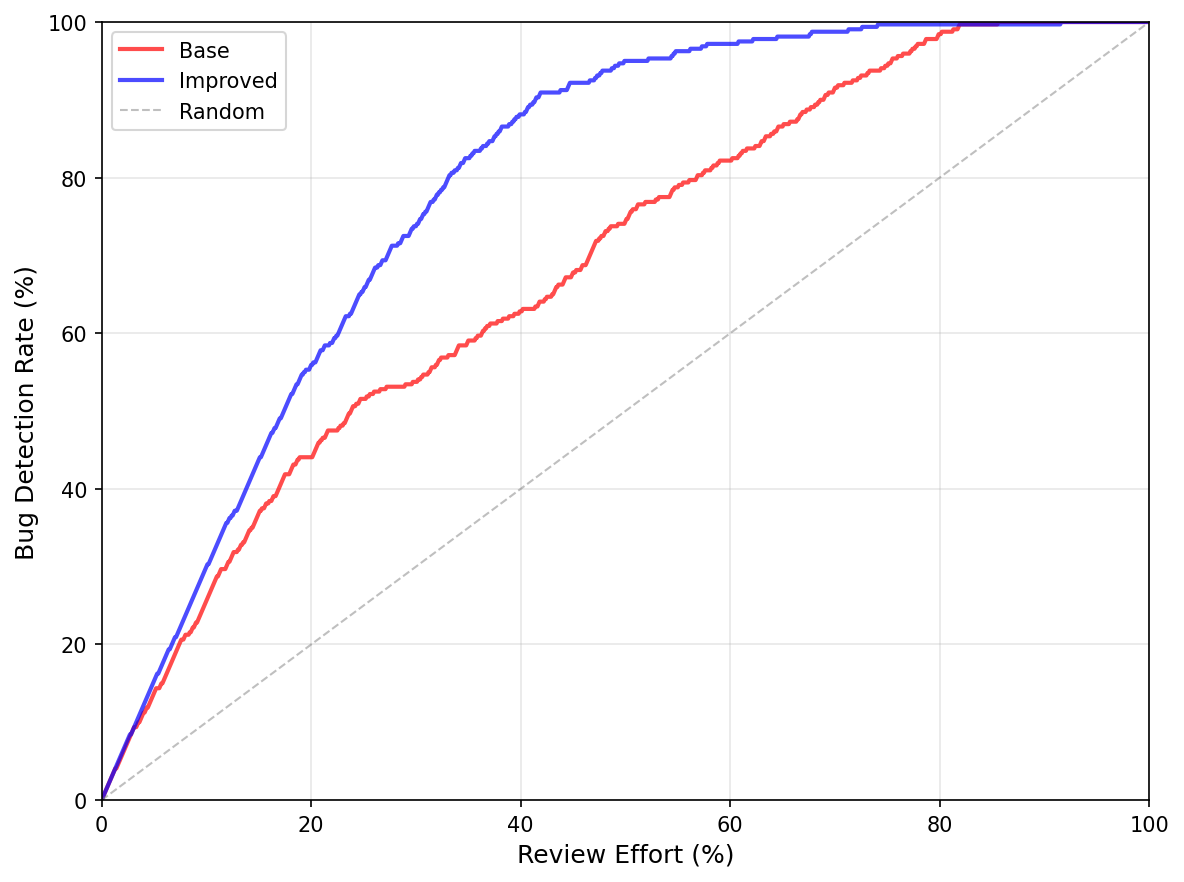
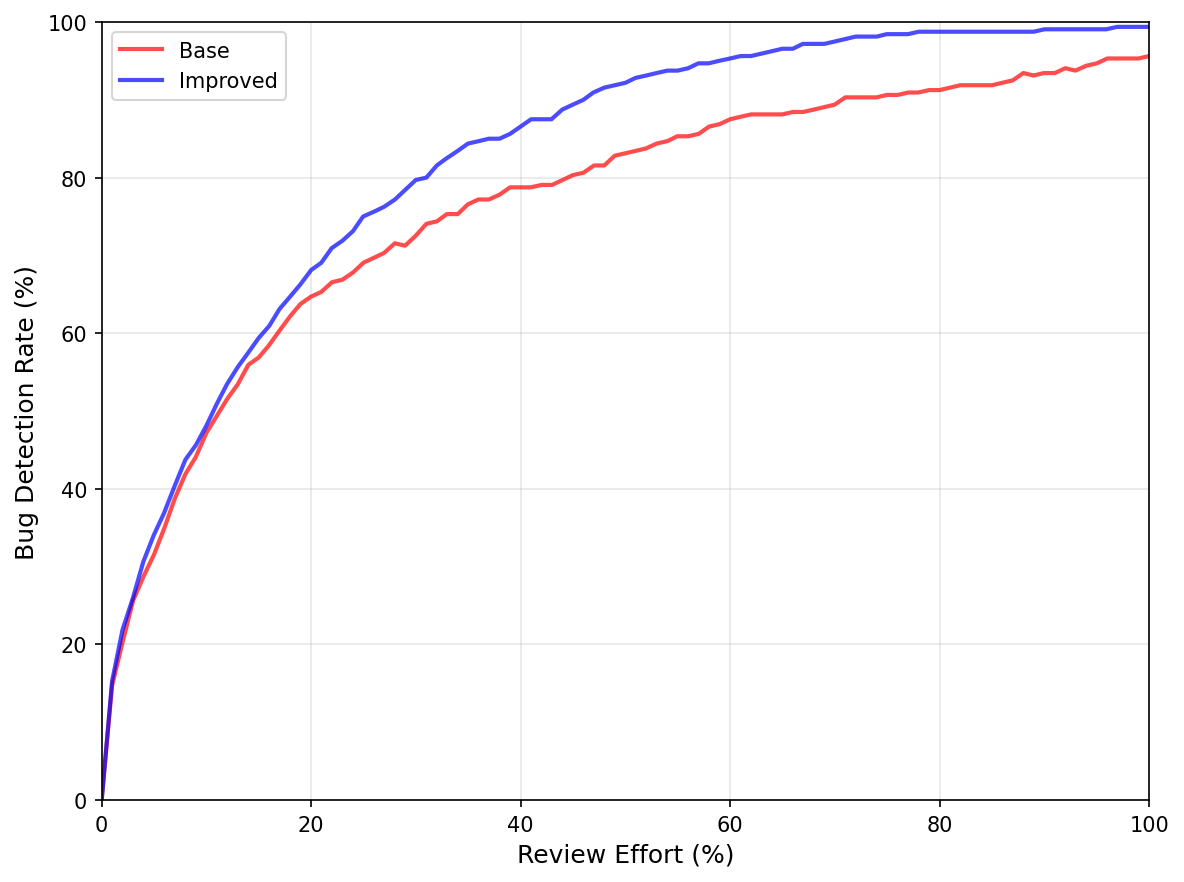
週報を追加する

diff --git a/docs/weekly-reports/2025-11-15.md b/docs/weekly-reports/2025-11-15.md
@@ -1,0 +1,41 @@
+---
+title: 2025年11月15日
+---
+## 今週の活動
+- 労力考慮型のレビュー労力測定手法を実装
+	- 動的計画法
+		- メモリ容量が足りず、プログラムが終了してしまった
+	- 貪欲法
+		- 数秒で処理が完了
+	- 貪欲法を採用することにした
+	- 労力の計算式
+		- $C$: コードチャーン（変更コード行数）
+		- $N$: 変更ファイル数
+		- $H$: Entropy
+		* ベース労力 $E_{raw} = C \times N^H$
+			* 変更の大きさと分散度を考慮
+		* 補正済み労力$E_{adj} = \ln(E_{raw} + 1)$
+			* 対数変換を適用し、変更の大きさや分散度が労力に与える影響を小さくする
+	* 密度の計算式
+		* 密度はナップサック問題において、アイテムをどの順番で選ぶかを決めるための指標
+		* 貪欲法では密度が高いものから順に選ぶ
+		* $\hat{y}_i$: モデルが予測した、そのコミットのバグ混入確率（$0 \le \hat{y}_i \le 1$）
+		* $E_{adj, i}$: そのコミットの補正済みレビュー労力
+		* 密度$\text{D}_i = \frac{\hat{y}_i}{E_{adj, i}}$
+## 得られた成果
+- 労力考慮型モデルを用いた場合であっても、提案手法の方がより多くのバグをより少ない労力で検出できた
+### Elasticsearch
+![](images/elasticsearch/new/comparison_cost_benefit_curve.png)
+### Hazelcast
+![](images/hazelcast/new/comparison_cost_benefit_curve.png)
+### Neo4j
+![](images/neo4j/new/comparison_cost_benefit_curve.png)
+### Netty
+![](images/netty/new/comparison_cost_benefit_curve.png)
+### OrientDB
+![](images/orientdb/new/comparison_cost_benefit_curve.png)
+## 直面した課題
+- 労力が非常に多いコミットが存在するため、全てのコミットの労力の和を容量（レビューに使える総労力）とするのは不適切
+- 「コミットをレビュー労力の小さい順にソートし、そのうち上位80%のコミットの労力の和を容量とする」などの対策が必要
+## 来週の計画
+- 過去に使用したLaTeXテンプレートに従って論文の下書きを完成させる

diff --git a/docs/weekly-reports/2025-11-01.md b/docs/weekly-reports/2025-11-01.md
@@ -9,9 +9,9 @@ title: 2025年11月1日
 	- レコードを陽性クラスの予測確率の降順に並べ、陽性クラスである可能性が高いものから順にレビュー
 	- コミットをレビューした数に対する、実際に陽性クラス（欠陥）であった数を測定し、積み上げ折れ線グラフを描く
 
-![](images/elasticsearch/new/cost_benefit_curve.png)
+![](images/elasticsearch/old/cost_benefit_curve.png)
 
-![](images/elasticsearch/new/comparison_cost_benefit_curve.png)
+![](images/elasticsearch/old/comparison_cost_benefit_curve.png)
 ## 得られた成果
 - 特徴量追加後のデータセットを、ベースラインのデータセットと比較したときの、より正確な評価指標と視覚的なデータを得られた
 ## 直面した課題
